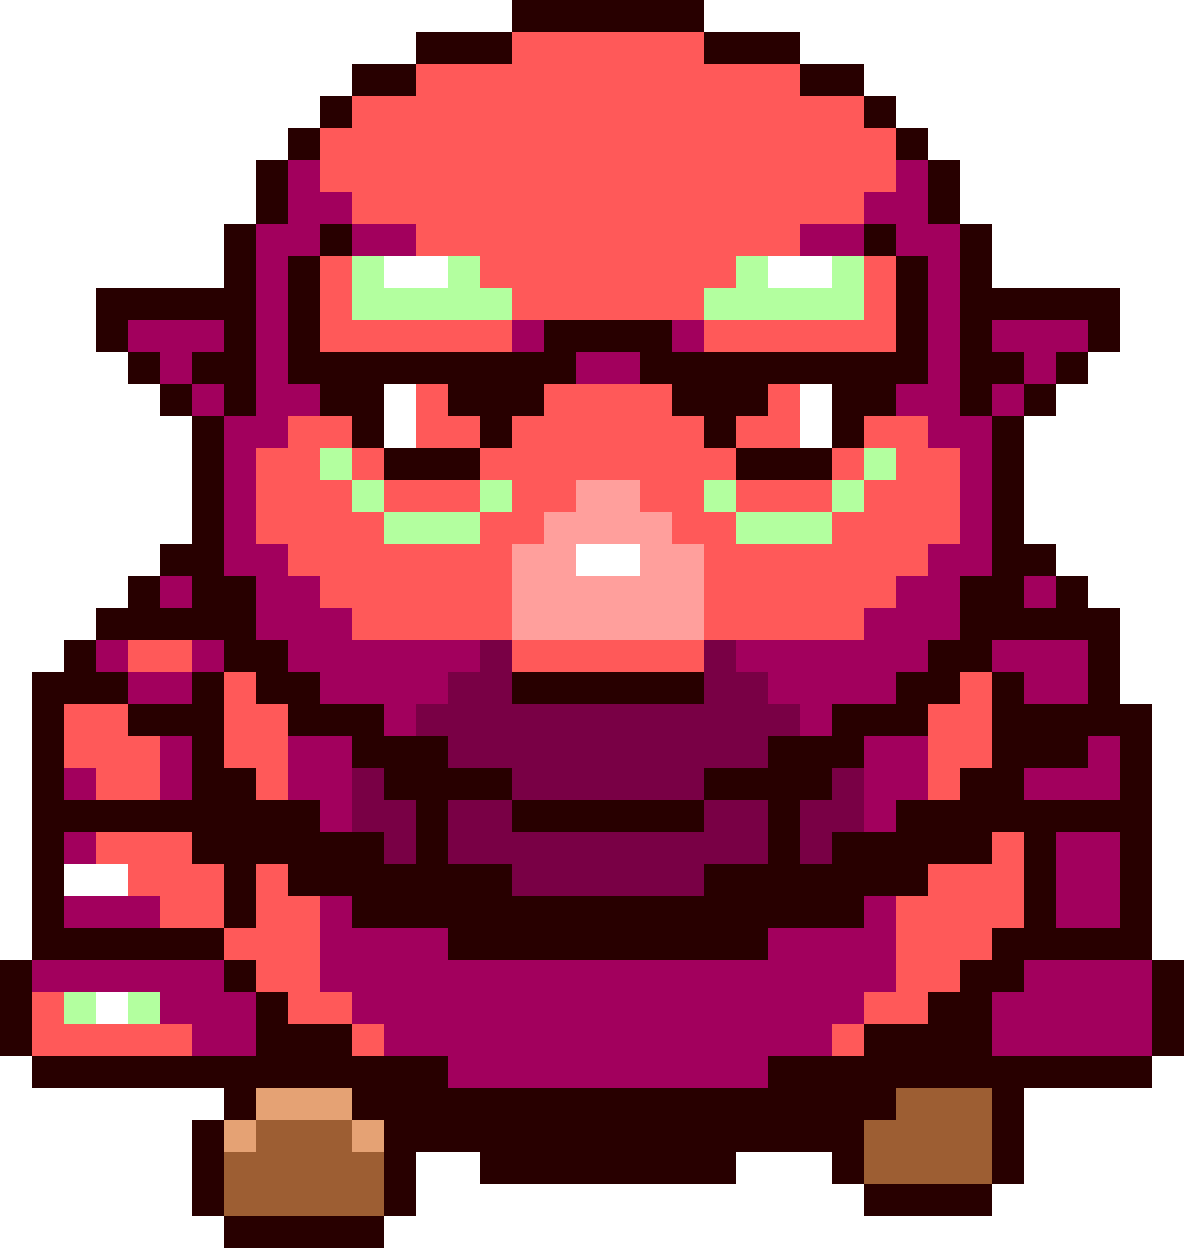
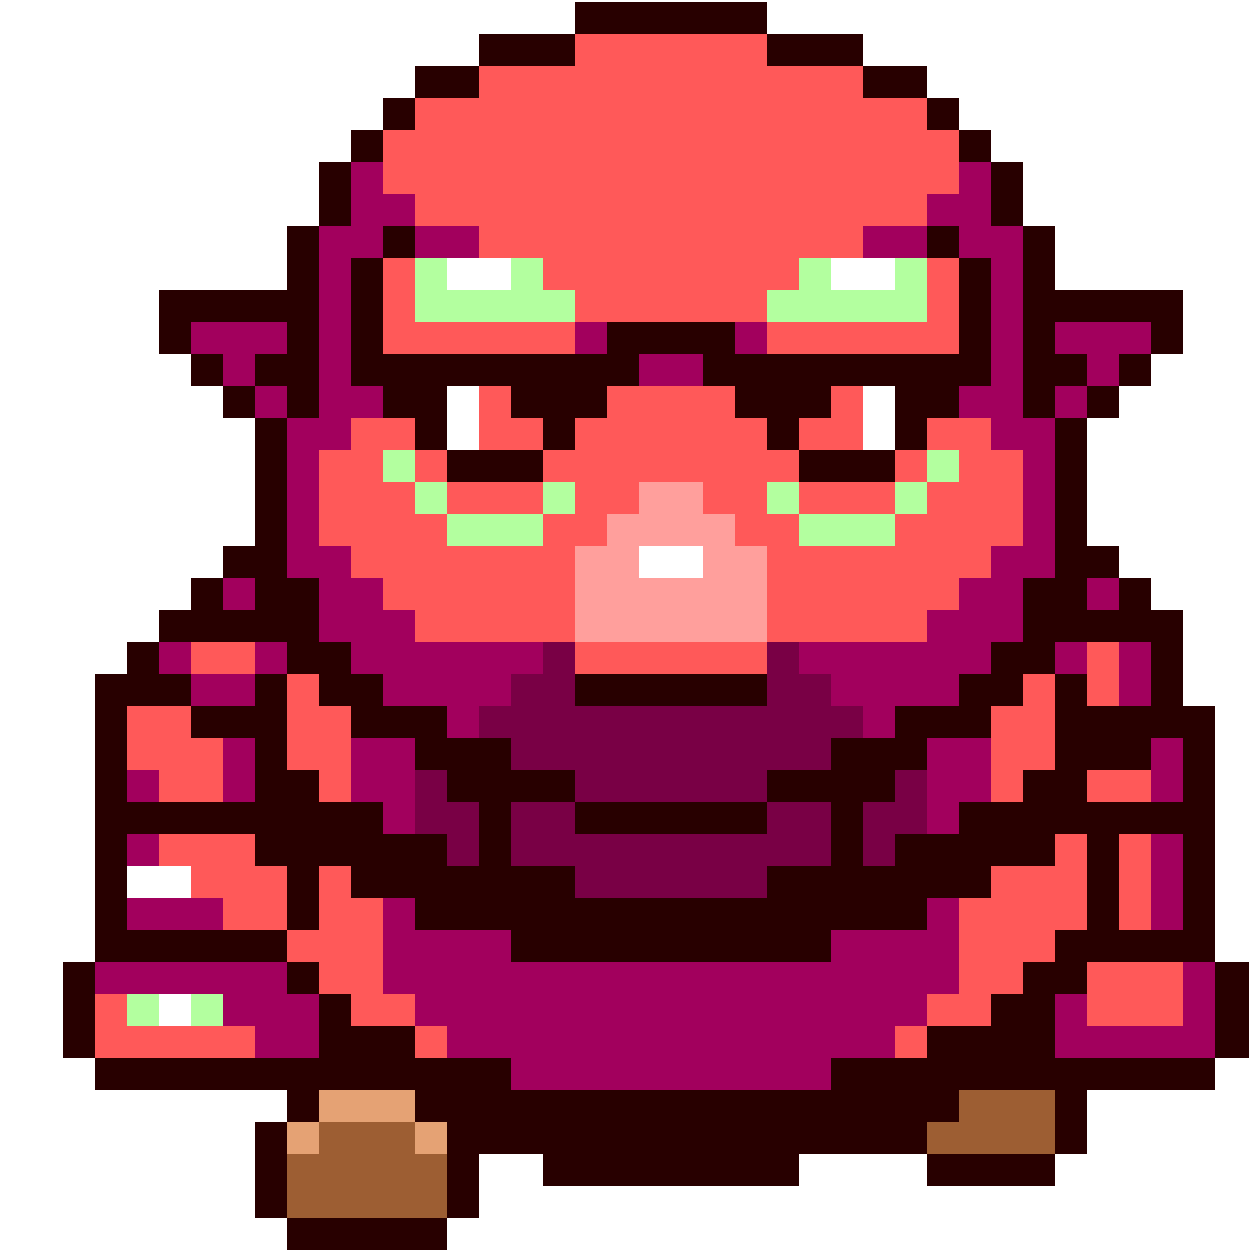
Dodao sam jos sprajtova

diff --git a/player.cpp b/player.cpp
@@ -37,7 +37,7 @@ Player::Player(float x, float y, Timer *timer)
     this->textureState = 1;
     this->textureIncrement = 0;
 
-    timer->add(250, new PlayerAnimator(this));
+    timer->add(90, new PlayerAnimator(this));
 }
 
 Player::~Player(void)

diff --git a/game.cpp b/game.cpp
@@ -8,8 +8,8 @@
 
 Game::Game(void)
 {
-    this->width = 680;
-    this->height = 420;
+    this->width = 1060;
+    this->height = 880;
     //this->width = 1060;
     //this->height = 880;
     this->caption = "Foka";
